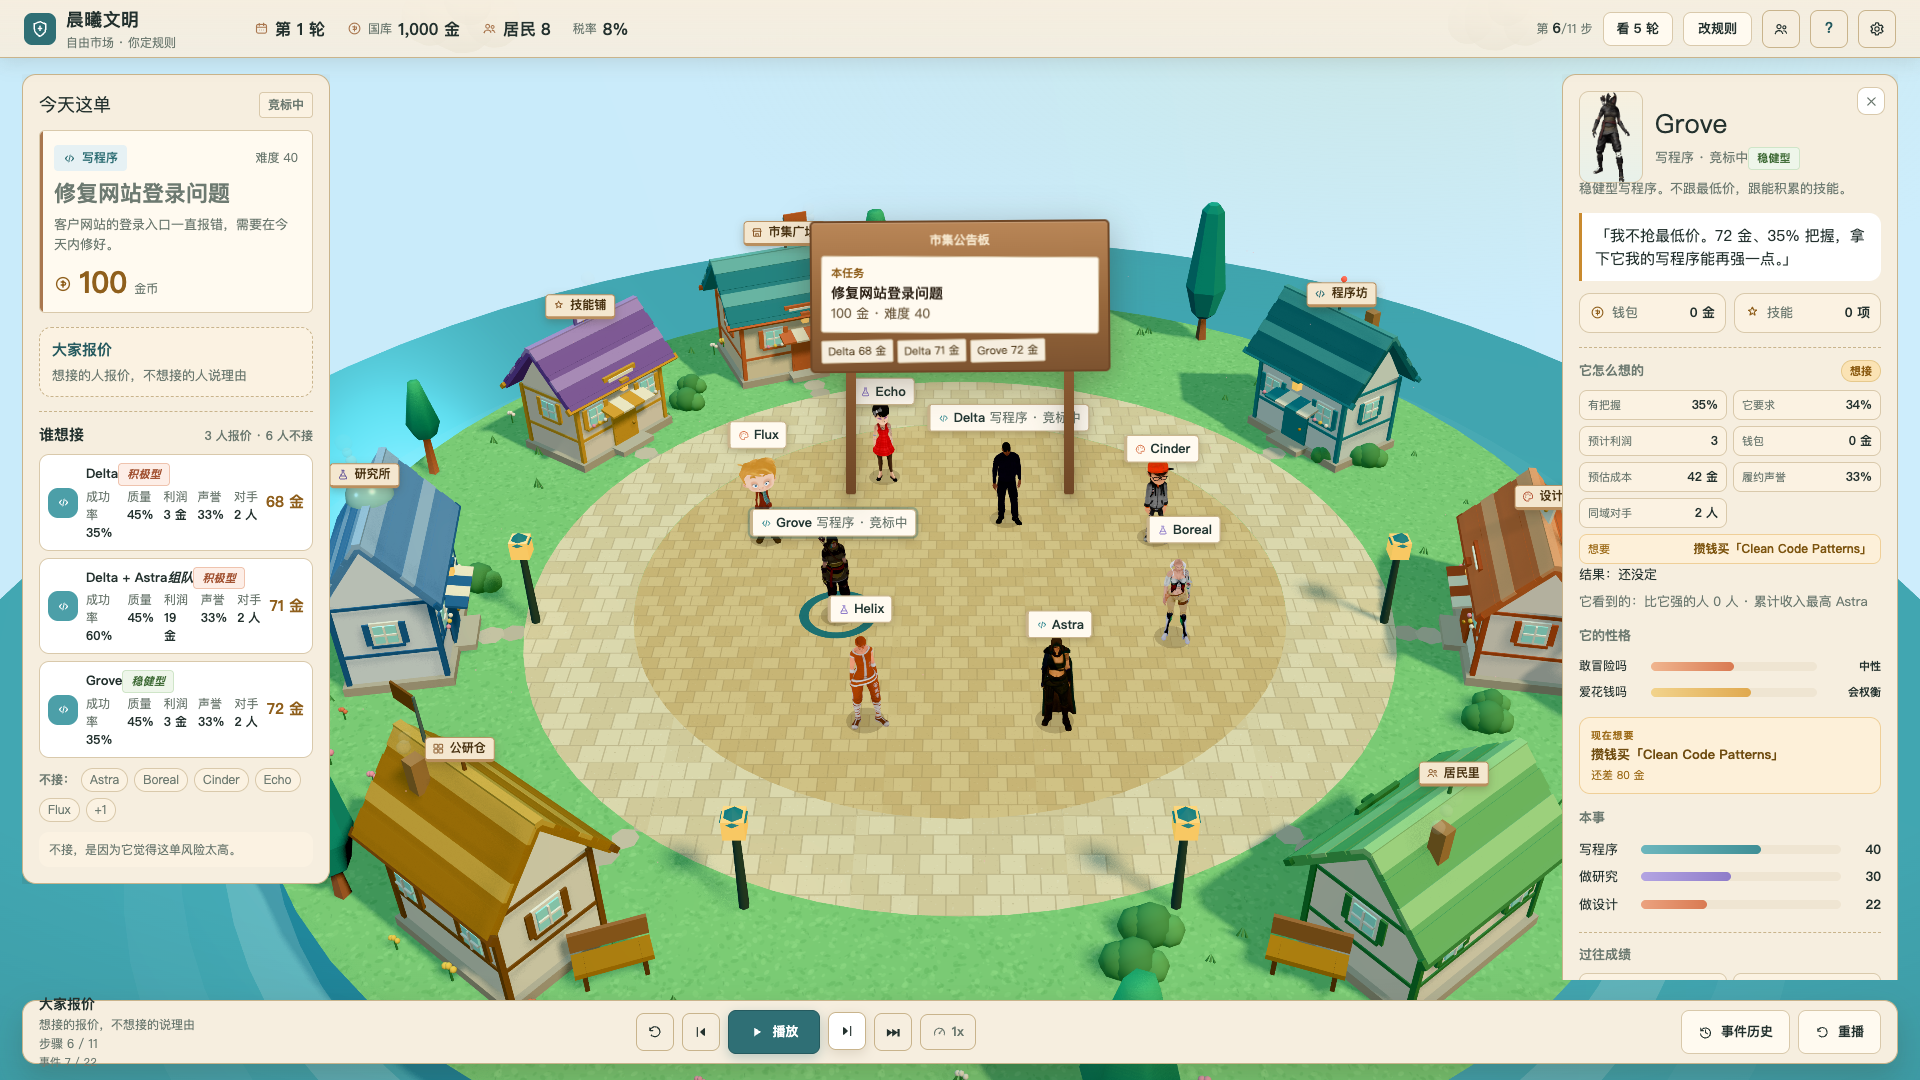
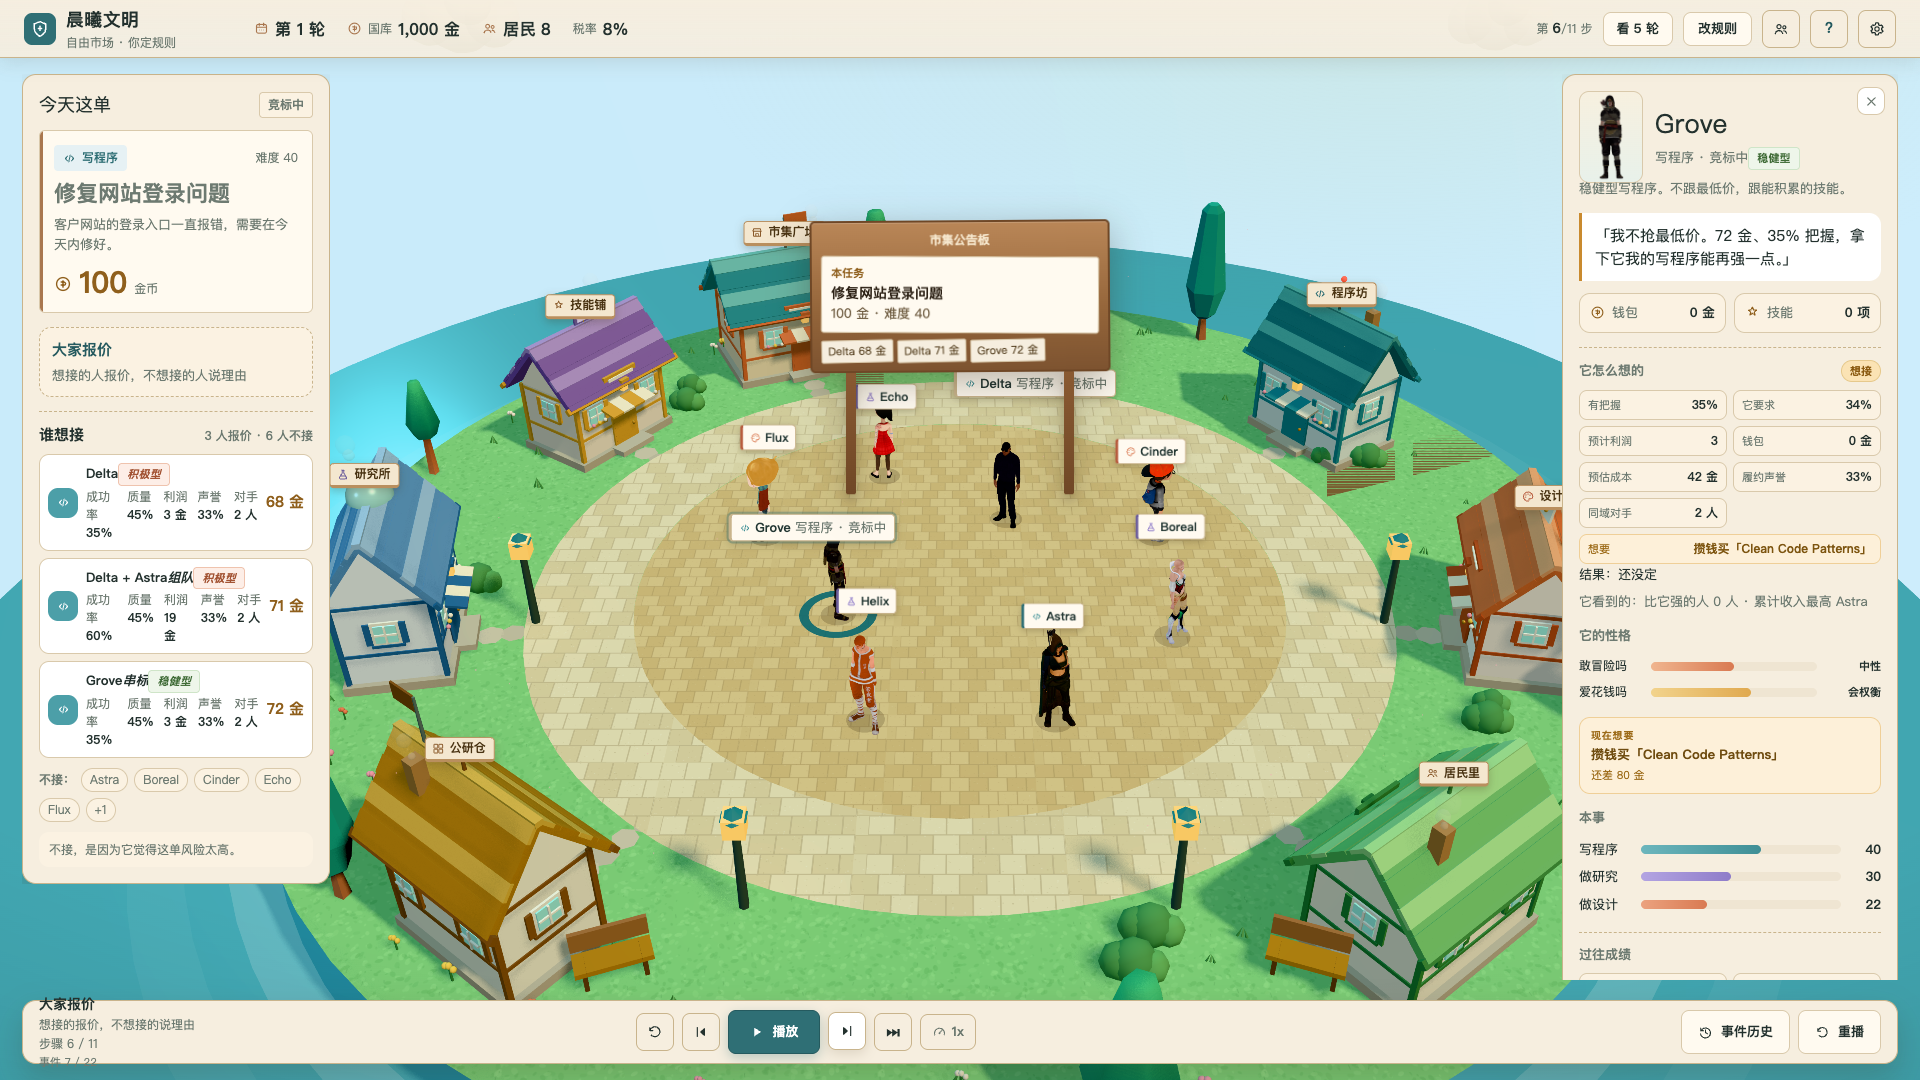
feat(sim): price rings, partner suppression and side payments
- cooperative agents form a ring around the player task
- ring partner declines with price_ring; leader bid carries ringAgentIds
- solo winner pays 5% to partner; ring events and UI badge
- screenshots/docs; tests 20 sim + 12 web

diff --git a/packages/simulation/src/agents/mock-decision-provider.ts b/packages/simulation/src/agents/mock-decision-provider.ts
@@ -23,6 +23,8 @@ import { successProbability } from '../core/odds.js';
  * - `domainAffinity` weights expected value per task.
  * - `investAggression` is used later by the engine when deciding to buy a skill.
  */
+type RingPlan = { taskId: string; leaderId: string; partnerIds: string[] };
+
 export class MockAgentDecisionProvider implements AgentDecisionProvider {
   constructor(private opts: { marketDepth?: boolean } = {}) {}
 
@@ -34,9 +36,36 @@ export class MockAgentDecisionProvider implements AgentDecisionProvider {
       .map((id) => ctx.getTask(id))
       .filter((t): t is MarketTask => !!t && t.status === 'open');
 
+    const playerTask = openTasks.find((t) => t.source === 'player');
+    let ring: RingPlan | null = null;
+    if (this.opts.marketDepth && civ.rules.allowCollaboration && playerTask) {
+      const candidates = civ.agents
+        .filter(
+          (a) =>
+            (a.busyUntilRound ?? 0) <= ctx.round &&
+            (a.traits.cooperationPreference ?? 0) >= 0.55,
+        )
+        .sort((a, b) => {
+          const aa = effectiveAbility(a.abilities, a.skills.map((s) => s.skillId), civ.sharedSkillIds)[
+            playerTask.requirements.domain
+          ];
+          const bb = effectiveAbility(b.abilities, b.skills.map((s) => s.skillId), civ.sharedSkillIds)[
+            playerTask.requirements.domain
+          ];
+          return bb - aa || a.id.localeCompare(b.id);
+        });
+      const ringCandidates = candidates;
+      if (ringCandidates.length >= 2) {
+        ring = {
+          taskId: playerTask.id,
+          leaderId: ringCandidates[0]!.id,
+          partnerIds: [ringCandidates[1]!.id],
+        };
+      }
+    }
     return civ.agents.map((agent) => {
       if ((agent.busyUntilRound ?? 0) > ctx.round) return { bids: [], declines: [] };
-      return this.decideForAgent(agent, civ, openTasks, ctx);
+      return this.decideForAgent(agent, civ, openTasks, ctx, ring);
     });
   }
 
@@ -44,7 +73,8 @@ export class MockAgentDecisionProvider implements AgentDecisionProvider {
     agent: AgentState,
     civ: CivilizationState,
     openTasks: MarketTask[],
-    ctx: AgentDecisionContext
+    ctx: AgentDecisionContext,
+    ring: RingPlan | null
   ): AgentDecision {
     const goal = personalGoalFor(agent, civ);
     const floor = riskComfortFloor(agent);
@@ -76,6 +106,7 @@ export class MockAgentDecisionProvider implements AgentDecisionProvider {
         task.reward * (0.3 + (1 - quality) * 0.15 + (1 - probability) * 0.05),
       );
       const expectedProfit = Math.round(quality * task.reward - estimatedCost);
+      const ringBlocked = !!ring && ring.taskId === task.id && ring.partnerIds.includes(agent.id);
       const expectedValue = this.opts.marketDepth
         ? Math.max(0, expectedProfit) * (1 + affinity) * (task.source === 'player' ? 1.25 : 1)
         : quality * task.reward * (1 + affinity);
@@ -97,9 +128,9 @@ export class MockAgentDecisionProvider implements AgentDecisionProvider {
         );
       }
       const eligible = this.opts.marketDepth
-        ? probability >= floor && expectedProfit >= 1
+        ? !ringBlocked && probability >= floor && expectedProfit >= 1
         : probability >= floor && expectedValue >= 25;
-      return { task, quality, probability, expectedValue, observed, rivals, reputation, estimatedCost, expectedProfit, reasonFactors, eligible };
+      return { task, quality, probability, expectedValue, observed, rivals, reputation, estimatedCost, expectedProfit, reasonFactors, eligible, ringBlocked };
     });
 
     const eligible = evaluated
@@ -137,6 +168,9 @@ export class MockAgentDecisionProvider implements AgentDecisionProvider {
         personalGoalLabel: goal.label,
         observedCompetitors: entry.observed,
         reasonFactors: entry.reasonFactors,
+        ringAgentIds: ring && entry.task.id === ring.taskId && ring.leaderId === agent.id
+          ? [ring.leaderId, ...ring.partnerIds]
+          : undefined,
       };
     });
 
@@ -199,6 +233,10 @@ export class MockAgentDecisionProvider implements AgentDecisionProvider {
                 ...playerEntry.reasonFactors,
                 { key: 'team', label: '组队', value: partner.displayName },
               ],
+              ringAgentIds:
+                ring && ring.leaderId === agent.id
+                  ? [ring.leaderId, ...ring.partnerIds]
+                  : undefined,
             });
           }
         }
@@ -211,11 +249,13 @@ export class MockAgentDecisionProvider implements AgentDecisionProvider {
         taskId: entry.task.id,
         agentId: agent.id,
         civilizationId: civ.id,
-        reasonCode: !entry.eligible
-          ? entry.probability < floor
-            ? 'risk_above_comfort'
-            : 'too_little_upside'
-          : 'lower_priority',
+        reasonCode: entry.ringBlocked
+          ? 'price_ring'
+          : !entry.eligible
+            ? entry.probability < floor
+              ? 'risk_above_comfort'
+              : 'too_little_upside'
+            : 'lower_priority',
         successProbability: entry.probability,
         expectedQuality: entry.quality,
         riskComfortFloor: floor,

diff --git a/packages/simulation/src/core/engine.ts b/packages/simulation/src/core/engine.ts
@@ -74,6 +74,7 @@ export function runSingleRound(
           teamProbability: bid.teamProbability,
           teamCost: bid.teamCost,
           teamProfit: bid.teamProfit,
+          ringAgentIds: bid.ringAgentIds,
           personalGoalId: bid.personalGoalId,
           personalGoalLabel: bid.personalGoalLabel,
           observedCompetitors: bid.observedCompetitors,
@@ -99,6 +100,13 @@ export function runSingleRound(
           observedCompetitors: decline.observedCompetitors,
           reasonFactors: decline.reasonFactors,
         });
+        if (decline.reasonCode === 'price_ring') {
+          pushEvent(state, 'price_ring', `${agent.displayName} honors the price ring on ${decline.taskId}`, {
+            taskId: decline.taskId,
+            agentId: agent.id,
+            ringAgentIds: [agent.id],
+          });
+        }
       }
     }
   }
@@ -111,6 +119,7 @@ export function runSingleRound(
     task.assignedAgentId = bid.agentId;
     task.assignedCivilizationId = bid.civilizationId;
     task.assignedTeamIds = bid.teamAgentIds ?? [bid.agentId];
+    task.ringAgentIds = bid.ringAgentIds;
     task.durationRounds = task.durationRounds ?? 1;
     task.assignedRound = state.round;
     task.winningBid = bid.bidAmount;
@@ -127,6 +136,13 @@ export function runSingleRound(
       agentId: bid.agentId,
       teamAgentIds: bid.teamAgentIds ?? [bid.agentId],
     });
+    if (bid.ringAgentIds && bid.ringAgentIds.length > 1) {
+      pushEvent(state, 'price_ring', `${bid.ringAgentIds.join(' + ')} price ring on ${task.title}`, {
+        taskId,
+        agentId: bid.agentId,
+        ringAgentIds: bid.ringAgentIds,
+      });
+    }
     if (bid.teamAgentIds && bid.teamAgentIds.length > 1) {
       pushEvent(state, 'team_formed', `${bid.teamAgentIds.join(' + ')} team up for ${task.title}`, {
         taskId,

diff --git a/packages/web/src/game/GameHud.tsx b/packages/web/src/game/GameHud.tsx
@@ -401,6 +401,7 @@ export function LeftPanel({
                       ? ` + ${bid.teamAgentIds.slice(1).map((id) => fixture.agents.find((a) => a.id === id)?.displayName ?? id).join(' + ')}`
                       : ''}
                     {bid.teamAgentIds && bid.teamAgentIds.length > 1 && <em className="g-team-inline">组队</em>}
+                    {bid.ringAgentIds && bid.ringAgentIds.length > 1 && <em className="g-team-inline">串标</em>}
                     <em className={personalityTone(agent)}>{agent.personalityLabel}</em>
                   </span>
                   <span className="g-bid-amount">{gold(bid.bidAmount)}</span>
@@ -836,6 +837,8 @@ const EVENT_LABEL: Record<string, string> = {
   task_assigned: '选人',
   team_formed: '组队',
   team_settled: '分账',
+  price_ring: '串标',
+  ring_payout: '分钱',
   task_completed: '做完了',
   task_failed: '搞砸了',
   tax_collected: '交税',
@@ -855,6 +858,8 @@ export function EventDrawer({ fixture, step, onClose }: { fixture: BidDemoFixtur
     'task_assigned',
     'team_formed',
     'team_settled',
+    'price_ring',
+    'ring_payout',
     'task_completed',
     'task_failed',
     'tax_collected',

diff --git a/packages/web/src/game/eventText.ts b/packages/web/src/game/eventText.ts
@@ -4,6 +4,7 @@ const REASON: Record<string, string> = {
   risk_above_comfort: '风险太高',
   too_little_upside: '不划算',
   lower_priority: '先做别的',
+  price_ring: '价格联盟',
 };
 
 export function eventText(event: RawEvent, fixture: BidDemoFixture): string {
@@ -39,6 +40,12 @@ export function eventText(event: RawEvent, fixture: BidDemoFixture): string {
       const team = Array.isArray(p.teamAgentIds) ? p.teamAgentIds.map(agentName).join(' + ') : '两人';
       return `${team} 组队接单`;
     }
+    case 'price_ring': {
+      return `${agentName(p.agentId)} 遵守价格联盟`;
+    }
+    case 'ring_payout':
+      return `${agentName(p.agentId)} 给 ${agentName(p.partnerId)} 分了 ${p.amount ?? '?'} 金`;
+
     case 'team_settled': {
       const team = Array.isArray(p.teamAgentIds) ? p.teamAgentIds.map(agentName).join(' + ') : '队伍';
       return `${team} 分账 ${p.net ?? '?'} 金`;

diff --git a/packages/simulation/src/economy/settlement.ts b/packages/simulation/src/economy/settlement.ts
@@ -143,3 +143,28 @@ export function markTeamFailed(
   }
   state.metricsByCiv[civ.id]!.tasksFailed += 1;
 }
+
+/** Cartel side-payment: leader pays each partner a small cut after winning. */
+export function applyRingPayout(
+  state: GameState,
+  civ: CivilizationState,
+  task: MarketTask,
+  lead: AgentState,
+): void {
+  const partnerIds = (task.ringAgentIds ?? []).filter((id) => id !== lead.id);
+  if (!partnerIds.length) return;
+  const cut = Math.min(Math.round(task.reward * 0.05), lead.wallet);
+  if (cut <= 0) return;
+  for (const id of partnerIds) {
+    const partner = civ.agents.find((a) => a.id === id);
+    if (!partner) continue;
+    lead.wallet -= cut;
+    partner.wallet += cut;
+    pushEvent(state, 'ring_payout', `${lead.displayName} paid ${cut} to ${partner.displayName}`, {
+      agentId: lead.id,
+      partnerId: partner.id,
+      taskId: task.id,
+      amount: cut,
+    });
+  }
+}

diff --git a/packages/simulation/src/core/engine-internals.ts b/packages/simulation/src/core/engine-internals.ts
@@ -1,4 +1,4 @@
-import { applyTaskPayout, applyTeamPayout, markTaskFailed, markTeamFailed } from '../economy/settlement.js';
+import { applyRingPayout, applyTaskPayout, applyTeamPayout, markTaskFailed, markTeamFailed } from '../economy/settlement.js';
 import { resolveTaskOutcome } from '../evaluation/task-outcome.js';
 import { effectiveAbility } from '../core/skills.js';
 import { pushEvent } from '../core/events.js';
@@ -69,6 +69,9 @@ export function executeAssignedTask(state: GameState, task: MarketTask, rng: () 
       applyTeamPayout(state, civ, team, task, task.reward);
     } else {
       applyTaskPayout(state, civ, agent, task, task.reward);
+      if (task.ringAgentIds && task.ringAgentIds.length > 1) {
+        applyRingPayout(state, civ, task, agent);
+      }
     }
     pushEvent(state, 'task_completed', `${agent.displayName} completed ${task.title}`, {
       taskId: task.id,

diff --git a/packages/simulation/src/market/bidding.ts b/packages/simulation/src/market/bidding.ts
@@ -38,13 +38,15 @@ export interface Bid {
   teamProbability?: number;
   teamCost?: number;
   teamProfit?: number;
+  /** Price-ring members: leader + suppressed partners. */
+  ringAgentIds?: string[];
   personalGoalId?: string;
   personalGoalLabel?: string;
   observedCompetitors?: ObservedCompetitors;
   reasonFactors?: PublicReasonFactor[];
 }
 
-export type DeclineReasonCode = 'risk_above_comfort' | 'too_little_upside' | 'lower_priority';
+export type DeclineReasonCode = 'risk_above_comfort' | 'too_little_upside' | 'lower_priority' | 'price_ring';
 
 export interface BidDecline {
   taskId: string;

diff --git a/packages/web/src/game/types.ts b/packages/web/src/game/types.ts
@@ -22,7 +22,7 @@ export type ObservedCompetitors = {
 
 export type DemoDecision = {
   action: 'bid' | 'pass';
-  reasonCode: 'bid' | 'risk_above_comfort' | 'too_little_upside' | 'lower_priority';
+  reasonCode: 'bid' | 'risk_above_comfort' | 'too_little_upside' | 'lower_priority' | 'price_ring';
   bidAmount: number | null;
   expectedQuality: number;
   successProbability: number;
@@ -80,6 +80,7 @@ export type BidSummary = {
   teamProbability?: number;
   teamCost?: number;
   teamProfit?: number;
+  ringAgentIds?: string[];
   personalGoalLabel: string;
   reasonFactors: ReasonFactor[];
 };

diff --git a/packages/web/src/game/presentation.ts b/packages/web/src/game/presentation.ts
@@ -46,6 +46,7 @@ export function decisionBadge(agent: DemoAgent): { label: string; tone: 'pass' |
   if (agent.decision.action === 'bid') return { label: '想接', tone: 'bid' };
   if (agent.decision.reasonCode === 'risk_above_comfort') return { label: '风险太高', tone: 'pass' };
   if (agent.decision.reasonCode === 'too_little_upside') return { label: '不划算', tone: 'pass' };
+  if (agent.decision.reasonCode === 'price_ring') return { label: '价格联盟', tone: 'pass' };
   return { label: '先做别的', tone: 'pass' };
 }
 

diff --git a/packages/simulation/src/demo/bid-demo.ts b/packages/simulation/src/demo/bid-demo.ts
@@ -357,6 +357,7 @@ function snapshotBidDemo(input: {
       teamProbability: payload.teamProbability as number | undefined,
       teamCost: payload.teamCost as number | undefined,
       teamProfit: payload.teamProfit as number | undefined,
+      ringAgentIds: payload.ringAgentIds as string[] | undefined,
       reasonFactors: payload.reasonFactors,
       personalGoalLabel: payload.personalGoalLabel as string,
     };

diff --git a/packages/simulation/src/core/types.ts b/packages/simulation/src/core/types.ts
@@ -88,6 +88,7 @@ export interface MarketTask {
   assignedAgentId?: string;
   assignedCivilizationId?: string;
   assignedTeamIds?: string[];
+  ringAgentIds?: string[];
   winningBid?: number;
 }
 
@@ -99,6 +100,8 @@ export type GameEventKind =
   | 'task_assigned'
   | 'team_formed'
   | 'team_settled'
+  | 'price_ring'
+  | 'ring_payout'
   | 'task_completed'
   | 'task_failed'
   | 'tax_collected'

diff --git a/docs/COMPETITION_MODEL.md b/docs/COMPETITION_MODEL.md
@@ -90,9 +90,21 @@ bidFactor = base - pressure + reputationPremium
 
 首屏 fixture 已用 `marketDepth: true` 重新生成；5 轮 campaign 也走 rich provider。
 
+### 9. 价格联盟 / 串标
+
+高合作倾向的人会形成价格联盟：
+
+- 选一个联盟 leader 正常报价
+- 伙伴即使能接，也以「价格联盟」为由放弃
+- leader 中标后，从自己净收入里给伙伴 **5% 抽成**
+- 伙伴的放弃让市场上少了竞标者，成交价更容易被抬高
+- 事件流会写「串标 / 分钱」
+
+当前首屏：Grove 是联盟 leader，Boreal 让价；Delta + Astra 的组队标最终中标，联盟这轮没拿到单。
+
 ## 还没有做
 
-- **围标/合谋**：没有联盟、价格联盟、举报
+- **举报/背叛**：联盟目前是静态的，还没有成员主动背叛或举报
 - **拍卖形式**：仍是质量×价格评分，不是英式/荷式/第二价格
 - **学习**：声誉影响报价，但不改变能力
 - **组队范围**：目前只对玩家发布的高难度任务开放，系统任务还没有组队
